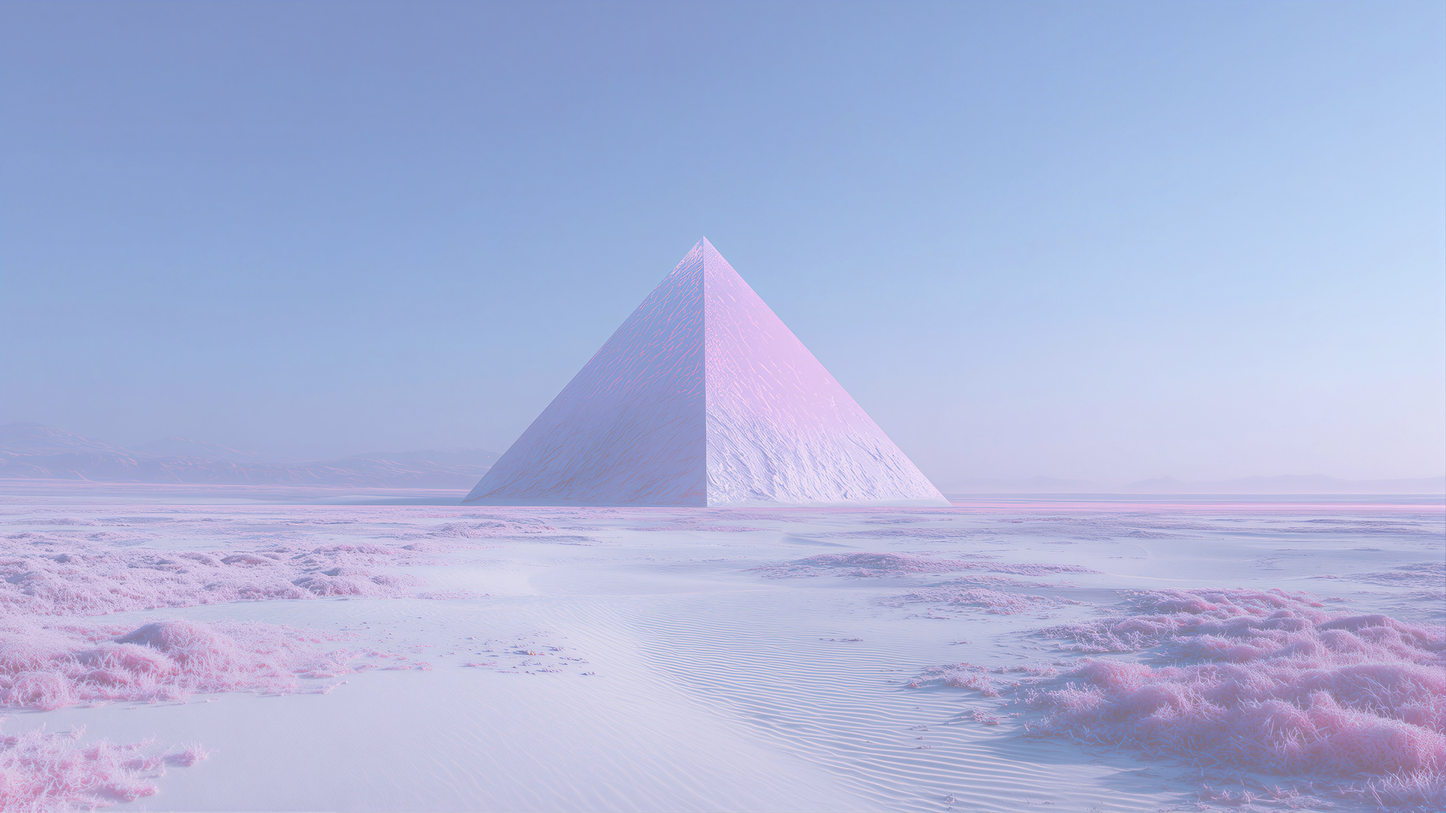
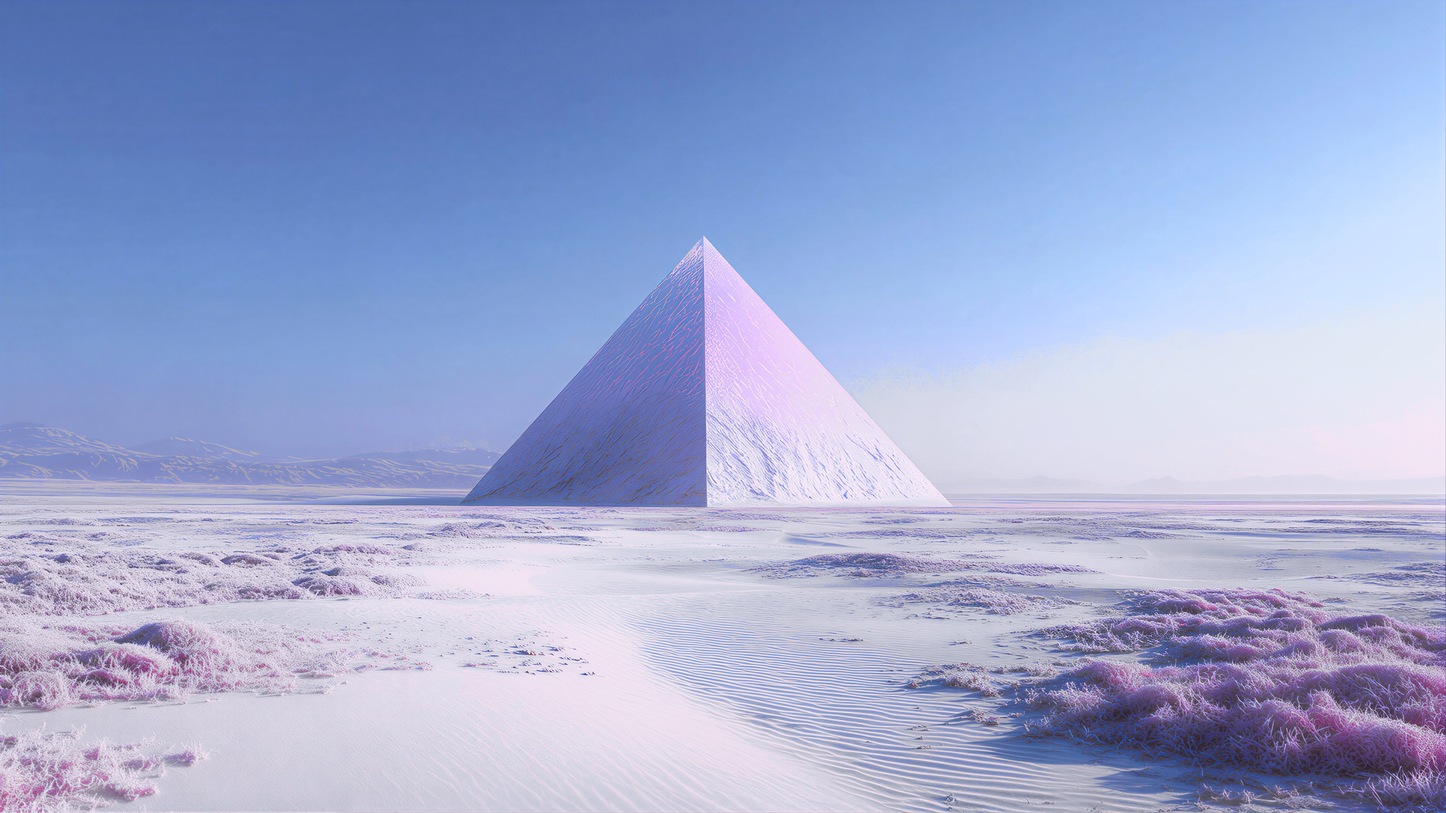
wallpapers: pin the pastels to the window colour instead of hazing them

diff --git a/README.md b/README.md
@@ -453,7 +453,7 @@ Restart open apps afterwards (Files caches icons per window).
 Add `--system` to install to `/usr/share/icons` instead, for every user and the
 login screen (asks for sudo); `--user` is the default.
 
-Wallpapers ship in [`backgrounds/`](backgrounds/), named `sorbetday-<subject>`, the same pictures as Sorbet, lifted into Sorbet Day's light key:
+Wallpapers ship in [`backgrounds/`](backgrounds/), named `sorbetday-<subject>`, the same pictures as Sorbet, their pastels pinned to Sorbet Day's window colour:
 five pastel photographs: a black-sand shore, a pink pyramid in a lilac
 desert, mint headphones, a pastel city block under a sliver of moon and a
 tower against a pink-to-cyan sky, plus the anime portrait from the
